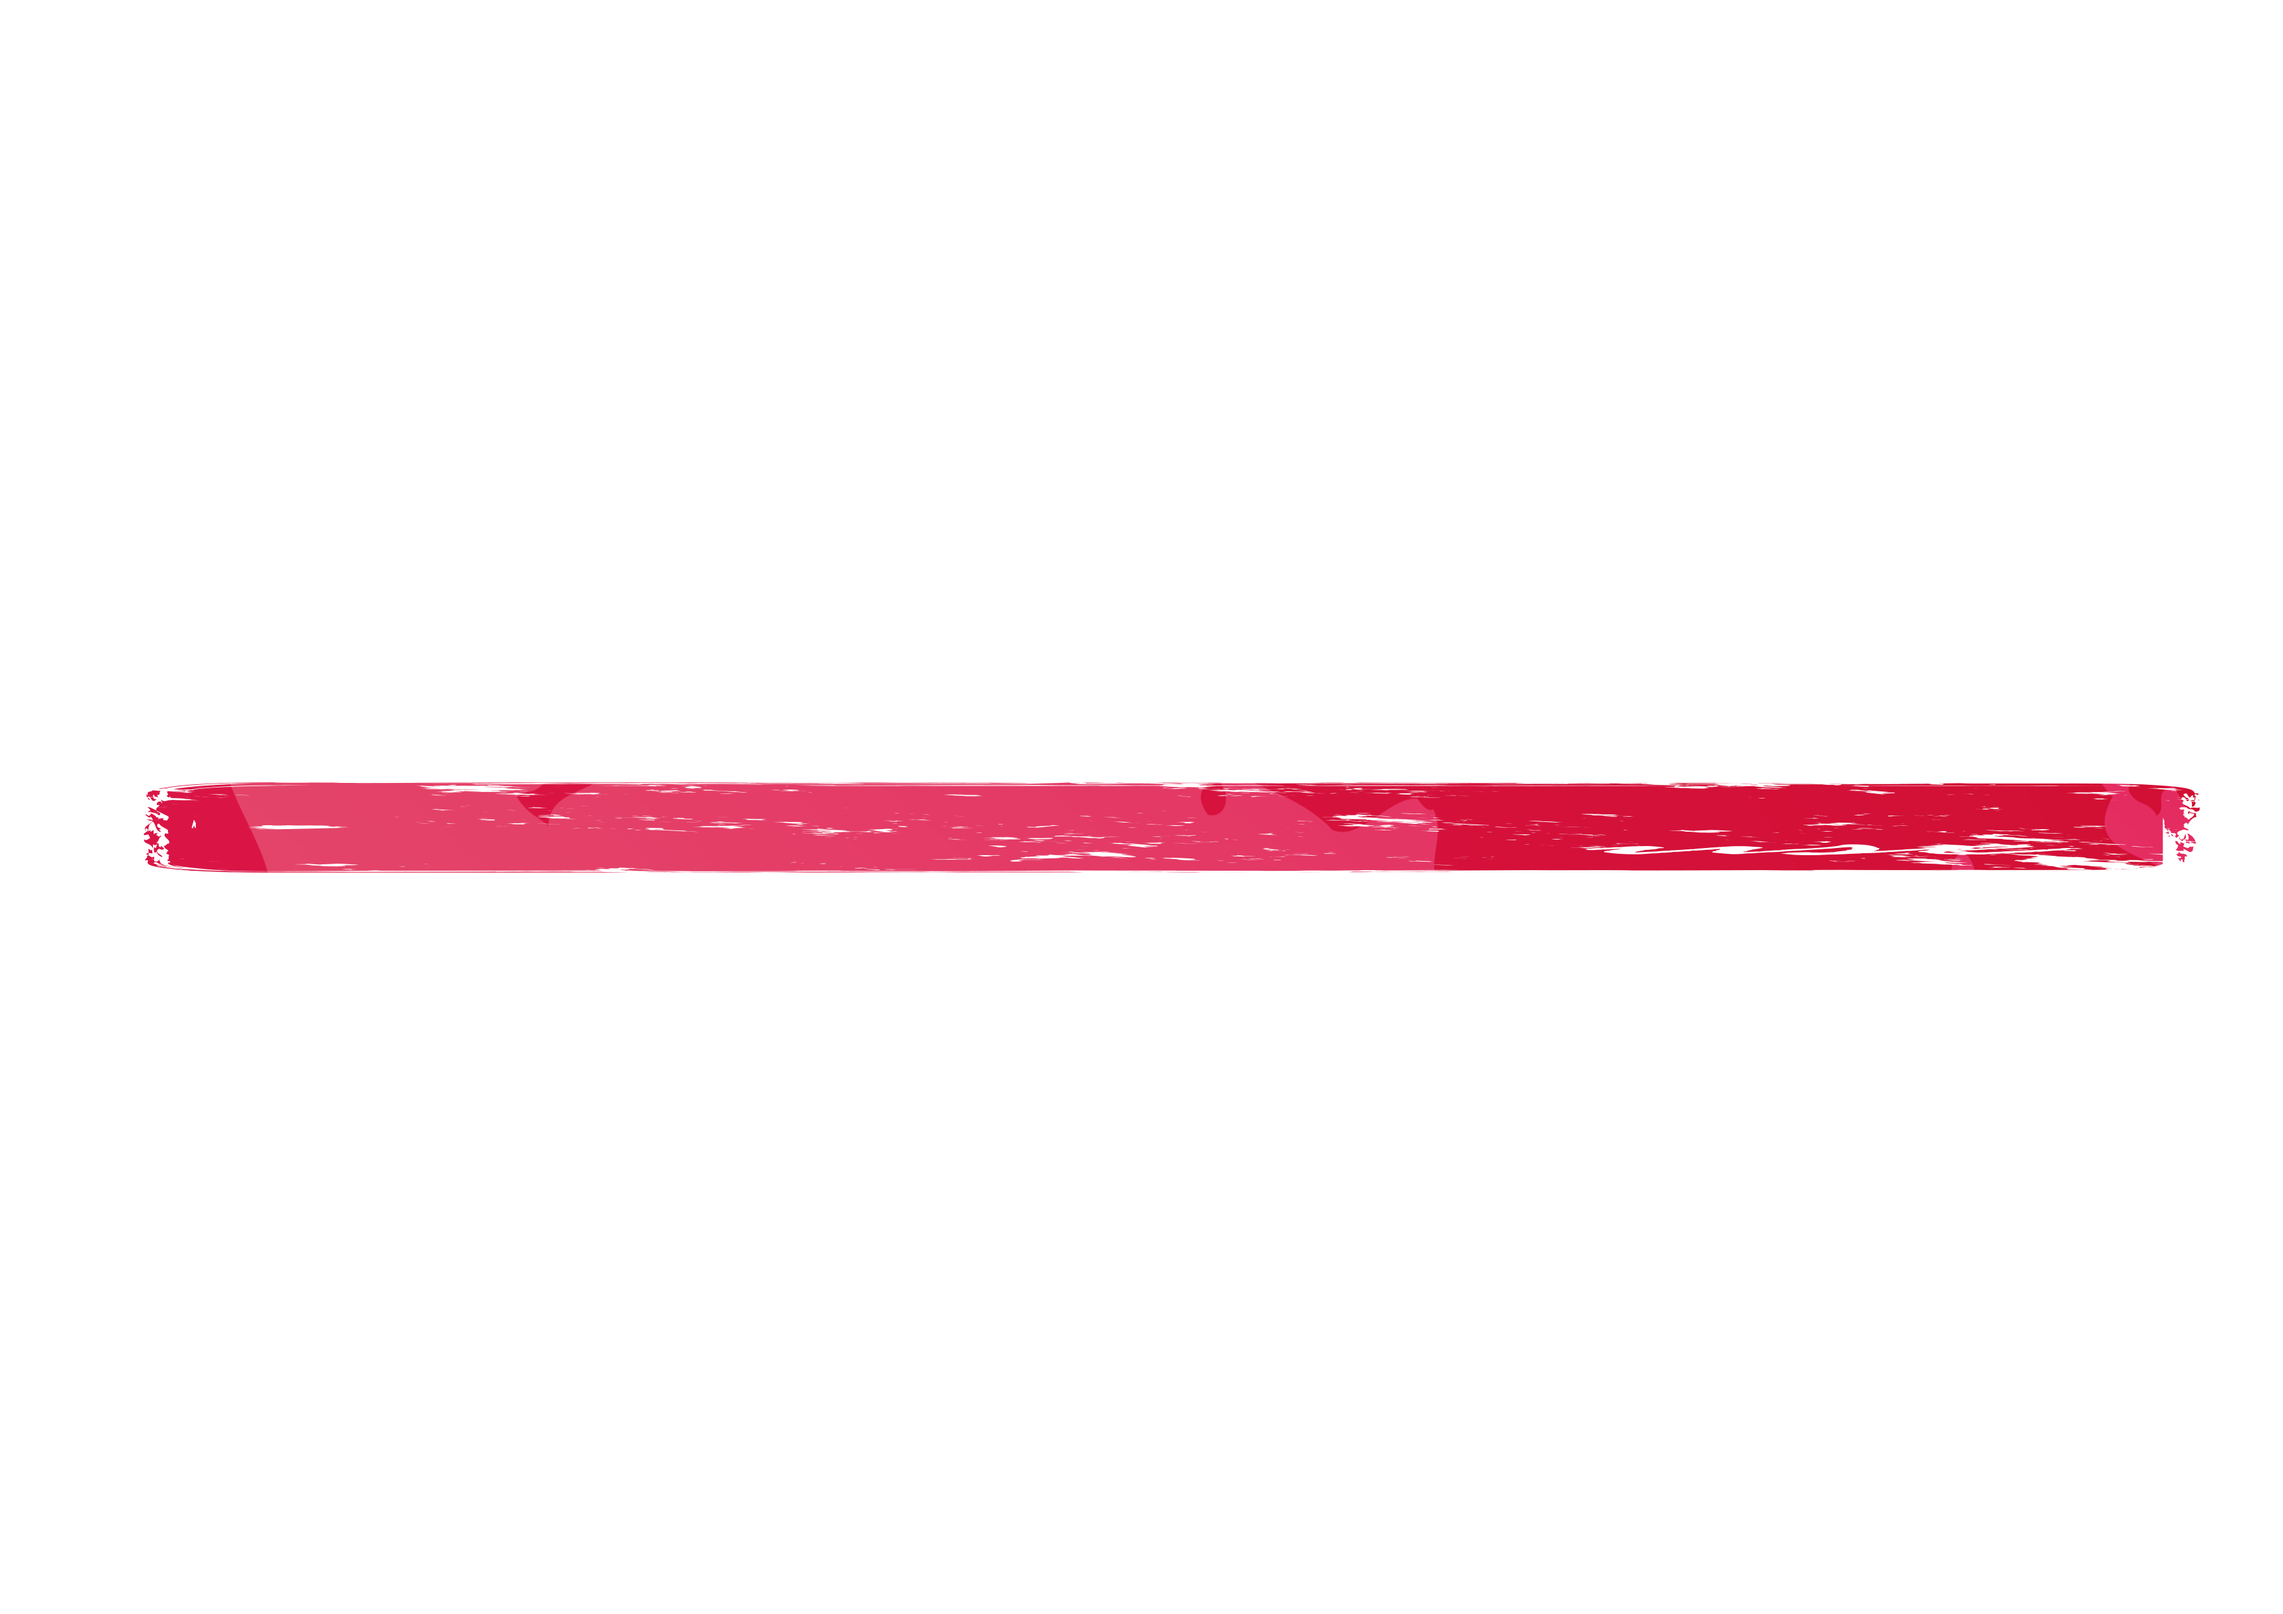
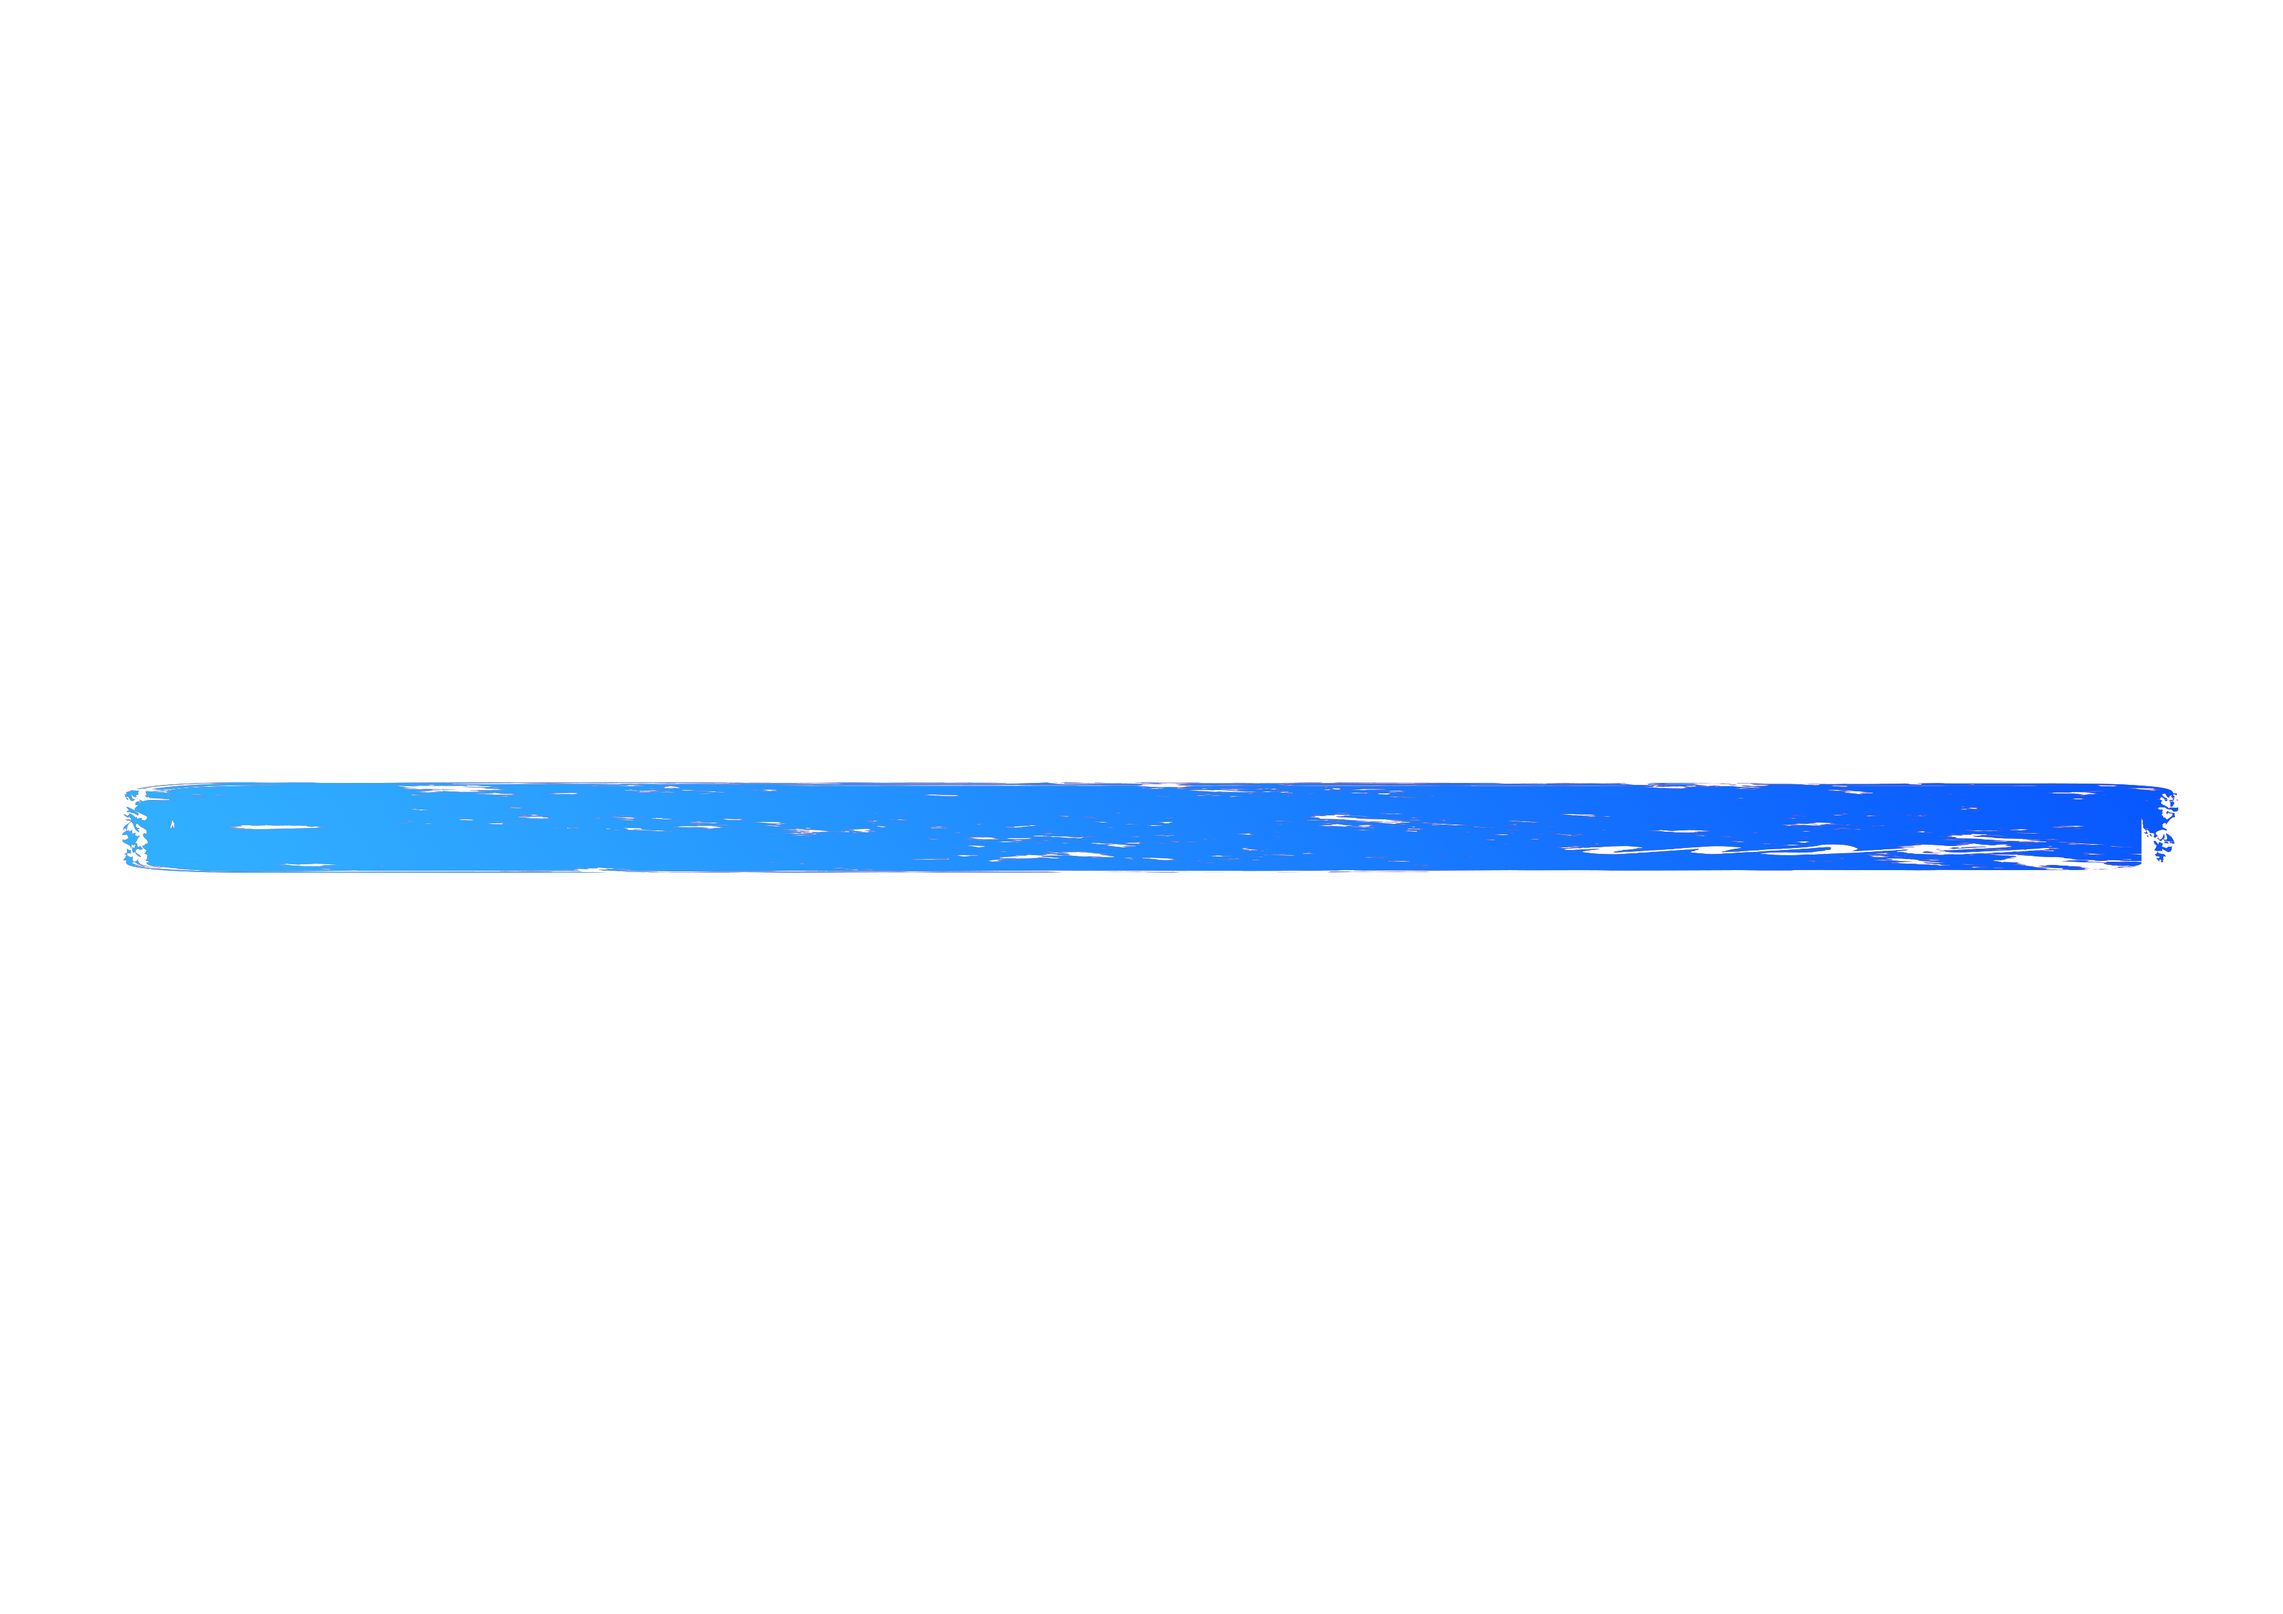
Bullet Points and Experience

Changed region(s): [[0.0311, 0.4657, 0.9632, 0.5589]]

diff --git a/src/sass/main.css b/src/sass/main.css
@@ -95,12 +95,13 @@ form button {
 }
 
 body {
-  background-image: linear-gradient(180deg, rgba(0, 0, 0, 0.85) 0%, rgba(0, 0, 0, 0.6375) 100%), url("../images/deltaBackground.png");
+  background-image: linear-gradient(180deg, rgba(0, 0, 0, 0.85) 0%, rgba(0, 0, 0, 0.6375) 100%), url("../images/deltaBackground-4.png");
   background-position: center;
   background-size: cover;
   background-repeat: no-repeat;
   min-height: 100vh;
-  width: 100vh;
+  height: max-content;
+  width: 100%;
   left: 0px;
   top: 0px;
 }
@@ -112,8 +113,8 @@ body #root {
   min-height: 100%;
   width: 100%;
   position: absolute;
-  background: linear-gradient(164.42deg, rgba(27, 27, 27, 0.51) -0.89%, rgba(0, 0, 0, 0.085) 100.62%);
-  backdrop-filter: blur(25px);
+  background: linear-gradient(164.42deg, rgba(27, 27, 27, 0.51) -0.89%, 100.62%);
+  backdrop-filter: blur(6px);
 }
 
 .underlineImage {
@@ -330,6 +331,13 @@ nav div button {
   height: 445px;
 }
 
+.mainContainer .mainFirstColumn .mainContent img {
+  width: 640px;
+  height: 10px;
+  object-fit: cover;
+  margin: -10px 0px 0px -60px;
+}
+
 .mainContainer .mainFirstColumn .mainContent .title {
   font-size: 64px;
 }
@@ -389,6 +397,20 @@ nav div button {
   margin-bottom: 30px;
 }
 
+.bulletPointsContainer .bulletPointsHeader h2 {
+  margin-bottom: 0px;
+}
+
+.bulletPointsContainer .bulletPointsHeader img {
+  height: 10px;
+  width: 300px;
+  object-fit: cover;
+}
+
+.bulletPointsContainer .bulletPointsHeader p {
+  margin-top: 15px;
+}
+
 .bulletPointsContainer .bulletPointsContent {
   display: flex;
 }
@@ -398,6 +420,37 @@ nav div button {
   flex-direction: column;
   align-items: center;
   text-align: center;
+  position: relative;
+  padding: 0px 20px;
+}
+
+.bulletPointsContainer .bulletPointsContent .bulletPoint img {
+  height: 170px;
+}
+
+.bulletPointsContainer .bulletPointsContent .bulletPoint div {
+  height: 20px;
+  width: 20px;
+  background-color: #0047FF;
+  position: absolute;
+  border-radius: 50%;
+  box-shadow: 0px 2px 10px rgba(0, 0, 0, 0.1);
+  color: white;
+  right: 162px;
+}
+
+.bulletPointsContainer .bulletPointsContent .bulletPoint div p {
+  font-weight: 600;
+  font-size: 13px;
+  padding: 1.4px;
+}
+
+.bulletPointsContainer .bulletPointsContent :first-child img, .bulletPointsContainer .bulletPointsContent :last-child img {
+  margin-top: 50px;
+}
+
+.bulletPointsContainer .bulletPointsContent :first-child div, .bulletPointsContainer .bulletPointsContent :last-child div {
+  top: 50px;
 }
 
 .experienceContainer {
@@ -434,7 +487,7 @@ nav div button {
   justify-content: center;
   align-items: center;
   height: 30px;
-  width: 60px !important;
+  min-width: 30px;
   background-color: black;
   border-radius: 50%;
   margin-right: 20px;

diff --git a/src/Pages/Home/Home.js b/src/Pages/Home/Home.js
@@ -9,7 +9,7 @@ const Home = () => {
                 <div className="mainFirstColumn">
                     <div className="mainContent">
                         <h1 className="title">Lautaro Ayosa</h1>
-                        <img alt="underline placeholder"/>
+                        <img src={require('../../images/underline.png')} alt="underline"/>
                         <p>Lorem ipsum dolor sit amet, consectetur adipiscing elit, sed do eiusmod tempor incididunt ut labore et dolore magna aliqua. Ut enim ad minim veniam, quis nostrud exercitation ullamco laboris</p>
                         <a className="buttonPrimary" href='/#'>Download Resume</a>
                     </div>
@@ -31,22 +31,25 @@ const Home = () => {
             <div className="bulletPointsContainer">
                 <div className="bulletPointsHeader">
                     <h2>I specialize in</h2>
-                    <img alt="underline placeholder"/>
+                    <img src={require('../../images/underline.png')} alt="underline"/>
                     <p>Lorem ipsum dolor sit amet, consectetur adipiscing elit, sed do eiusmod tempor incididunt ut labore </p>
                 </div>
                 <div className="bulletPointsContent">
                     <div className="bulletPoint">
-                        <img alt="Icon placeholder"/>
+                        <div><p>2</p></div>
+                        <img src={require('../../images/bulletPoint.png')} alt="Icon placeholder"/>
                         <h4>Mobile Development</h4>
                         <p>Lorem ipsum dolor sit amet, consectetur adipiscing elit, sed do eiusmod tempor</p>
                     </div>
                     <div className="bulletPoint">
-                        <img alt="Icon placeholder"/>
+                        <div><p>1</p></div>
+                        <img src={require('../../images/bulletPoint.png')} alt="Icon placeholder"/>
                         <h4>Mobile Development</h4>
                         <p>Lorem ipsum dolor sit amet, consectetur adipiscing elit, sed do eiusmod tempor</p>
                     </div>
                     <div className="bulletPoint">
-                        <img alt="Icon placeholder"/>
+                        <div><p>3</p></div>
+                        <img src={require('../../images/bulletPoint.png')} alt="Icon placeholder"/>
                         <h4>Mobile Development</h4>
                         <p>Lorem ipsum dolor sit amet, consectetur adipiscing elit, sed do eiusmod tempor</p>
                     </div>

diff --git a/src/sass/pages/_home.scss b/src/sass/pages/_home.scss
@@ -11,6 +11,12 @@
         width: 50%;
         height: 445px;
         .mainContent {
+            img {
+                width: 640px;
+                height: 10px;
+                object-fit: cover;
+                margin: -10px 0px 0px -60px;
+            }
             .title {
                 font-size: 64px;
             }
@@ -62,6 +68,17 @@
         align-items: center;
         flex-direction: column;
         margin-bottom: 30px;
+        h2 {
+            margin-bottom: 0px;
+        }
+        img {
+            height: 10px;
+            width: 300px;
+            object-fit: cover;
+        }
+        p {
+            margin-top: 15px;
+        }
     }
     .bulletPointsContent {
         display: flex;
@@ -70,8 +87,34 @@
             flex-direction: column;
             align-items: center;
             text-align: center;
-
-
+            position: relative;
+            padding: 0px 20px;
+            img {
+                height: 170px;
+            }
+            div {
+                height: 20px;
+                width: 20px;
+                background-color: $primaryColor;
+                position: absolute;
+                border-radius: 50%;
+                box-shadow: $box-shadow;
+                color: white;
+                right: 162px;
+                p {
+                    font-weight: 600;
+                    font-size: 13px;
+                    padding: 1.4px;
+                }
+            }
+        }
+        & :first-child, :last-child {
+            img {
+                margin-top: 50px;
+            }
+            div {
+                top: 50px;
+            }
         }
     }
 }
@@ -109,7 +152,7 @@
                     justify-content: center;
                     align-items: center;
                     height: 30px;
-                    width: 60px !important;
+                    min-width: 30px;
                     background-color: black;
                     border-radius: 50%;
                     margin-right: 20px;

diff --git a/src/sass/core/_root.scss b/src/sass/core/_root.scss
@@ -4,9 +4,11 @@ body {
     background-size: cover;
     background-repeat: no-repeat;
     min-height: 100vh;
-    width: 100vh;
+    height: max-content;
+    width: 100%;
     left: 0px;
     top: 0px;
+
     #root {
         display: flex;
         flex-direction: column;
@@ -14,8 +16,8 @@ body {
         min-height: 100%;
         width: 100%;
         position: absolute;
-        background: linear-gradient(164.42deg, rgba(27, 27, 27, 0.51) -0.89%, rgba(0, 0, 0, 0.085) 100.62%);
-        backdrop-filter: blur(25px);
+        background: linear-gradient(164.42deg, rgba(27, 27, 27, 0.51) -0.89%,100.62%);
+        backdrop-filter: blur(6px);
     }
 }
 

diff --git a/src/sass/sass-utils/_variables.scss b/src/sass/sass-utils/_variables.scss
@@ -7,6 +7,6 @@ $grey3: #7A7A7A;
 
 $underlineImage: linear-gradient(268.21deg, rgba(0, 71, 255, 0.7) 13.06%, rgba(52, 182, 255, 0.7) 72.84%), url("../images/underline.png");
 
-$backgroundImage: linear-gradient(180deg, rgba(0, 0, 0, 0.85) 0%, rgba(0, 0, 0, 0.6375) 100%), url("../images/deltaBackground.png");
+$backgroundImage: linear-gradient(180deg, rgba(0, 0, 0, 0.85) 0%, rgba(0, 0, 0, 0.6375) 100%), url("../images/deltaBackground-4.png");
 
 $box-shadow: 0px 2px 10px rgba(0,0,0,0.1);

diff --git a/src/Components/Experiences/Experiences.js b/src/Components/Experiences/Experiences.js
@@ -55,7 +55,7 @@ const Experiences = () => {
     return (
         <div className="experienceContainer">
             <div className="experienceFirstColumn">
-                <img src='/images/greyComputer-experience.jpg' alt="Placeholder"/>
+                <img src={require('../../images/greyComputer-experience.jpg')} alt="Placeholder"/>
             </div>
             <div className="experienceSecondColumn">
                 <div className="experienceHeader">
